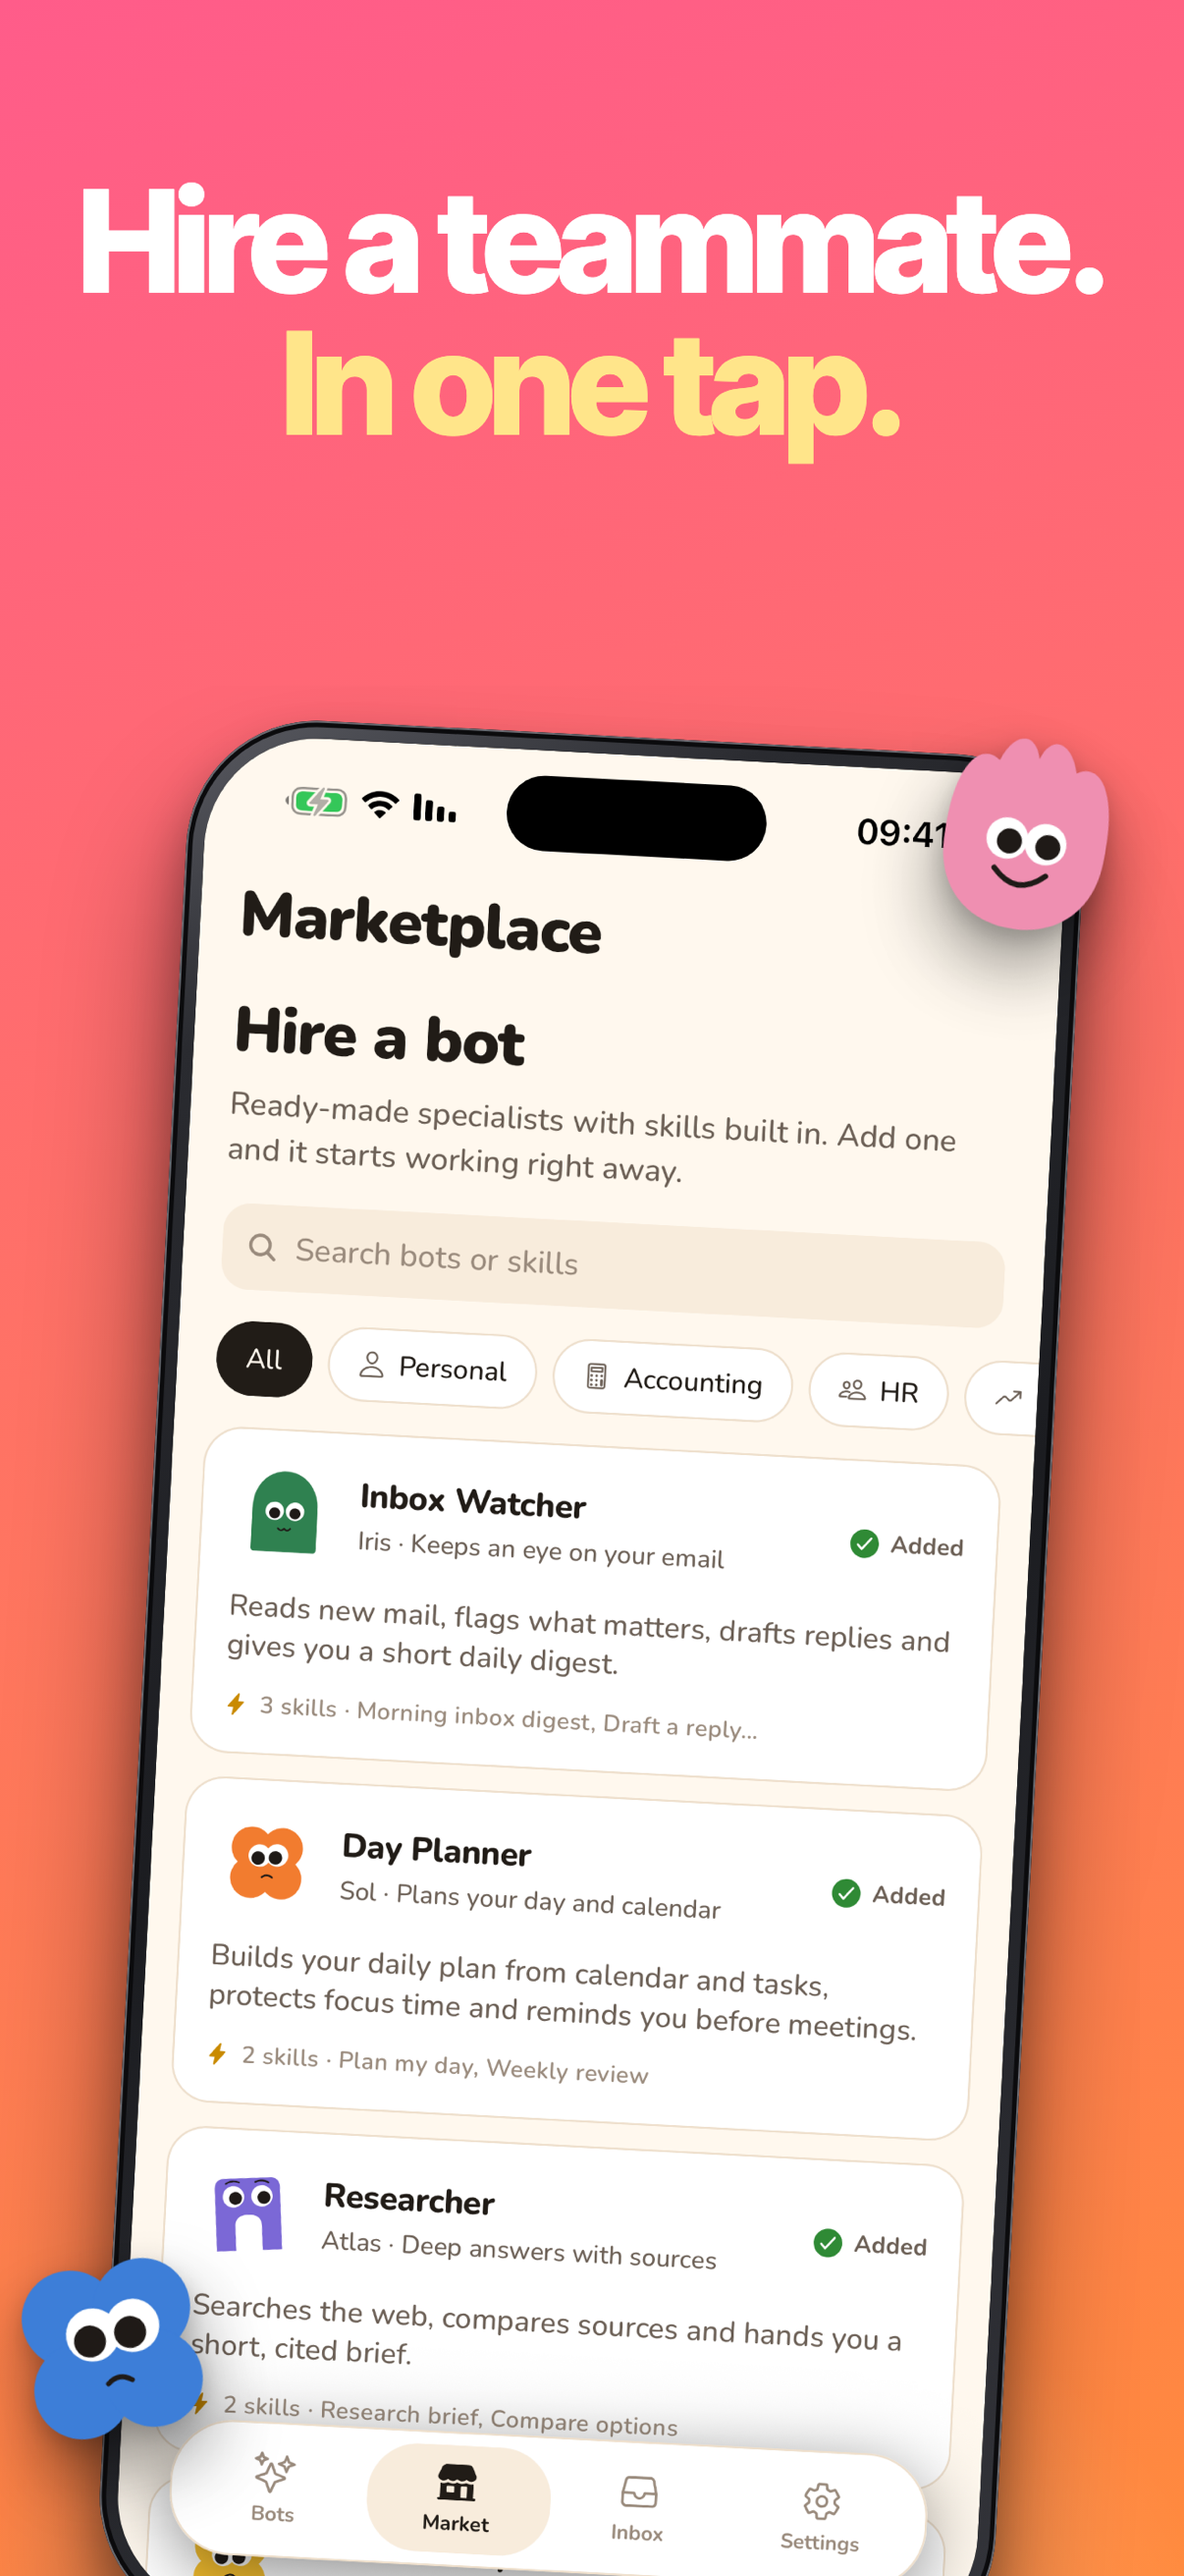
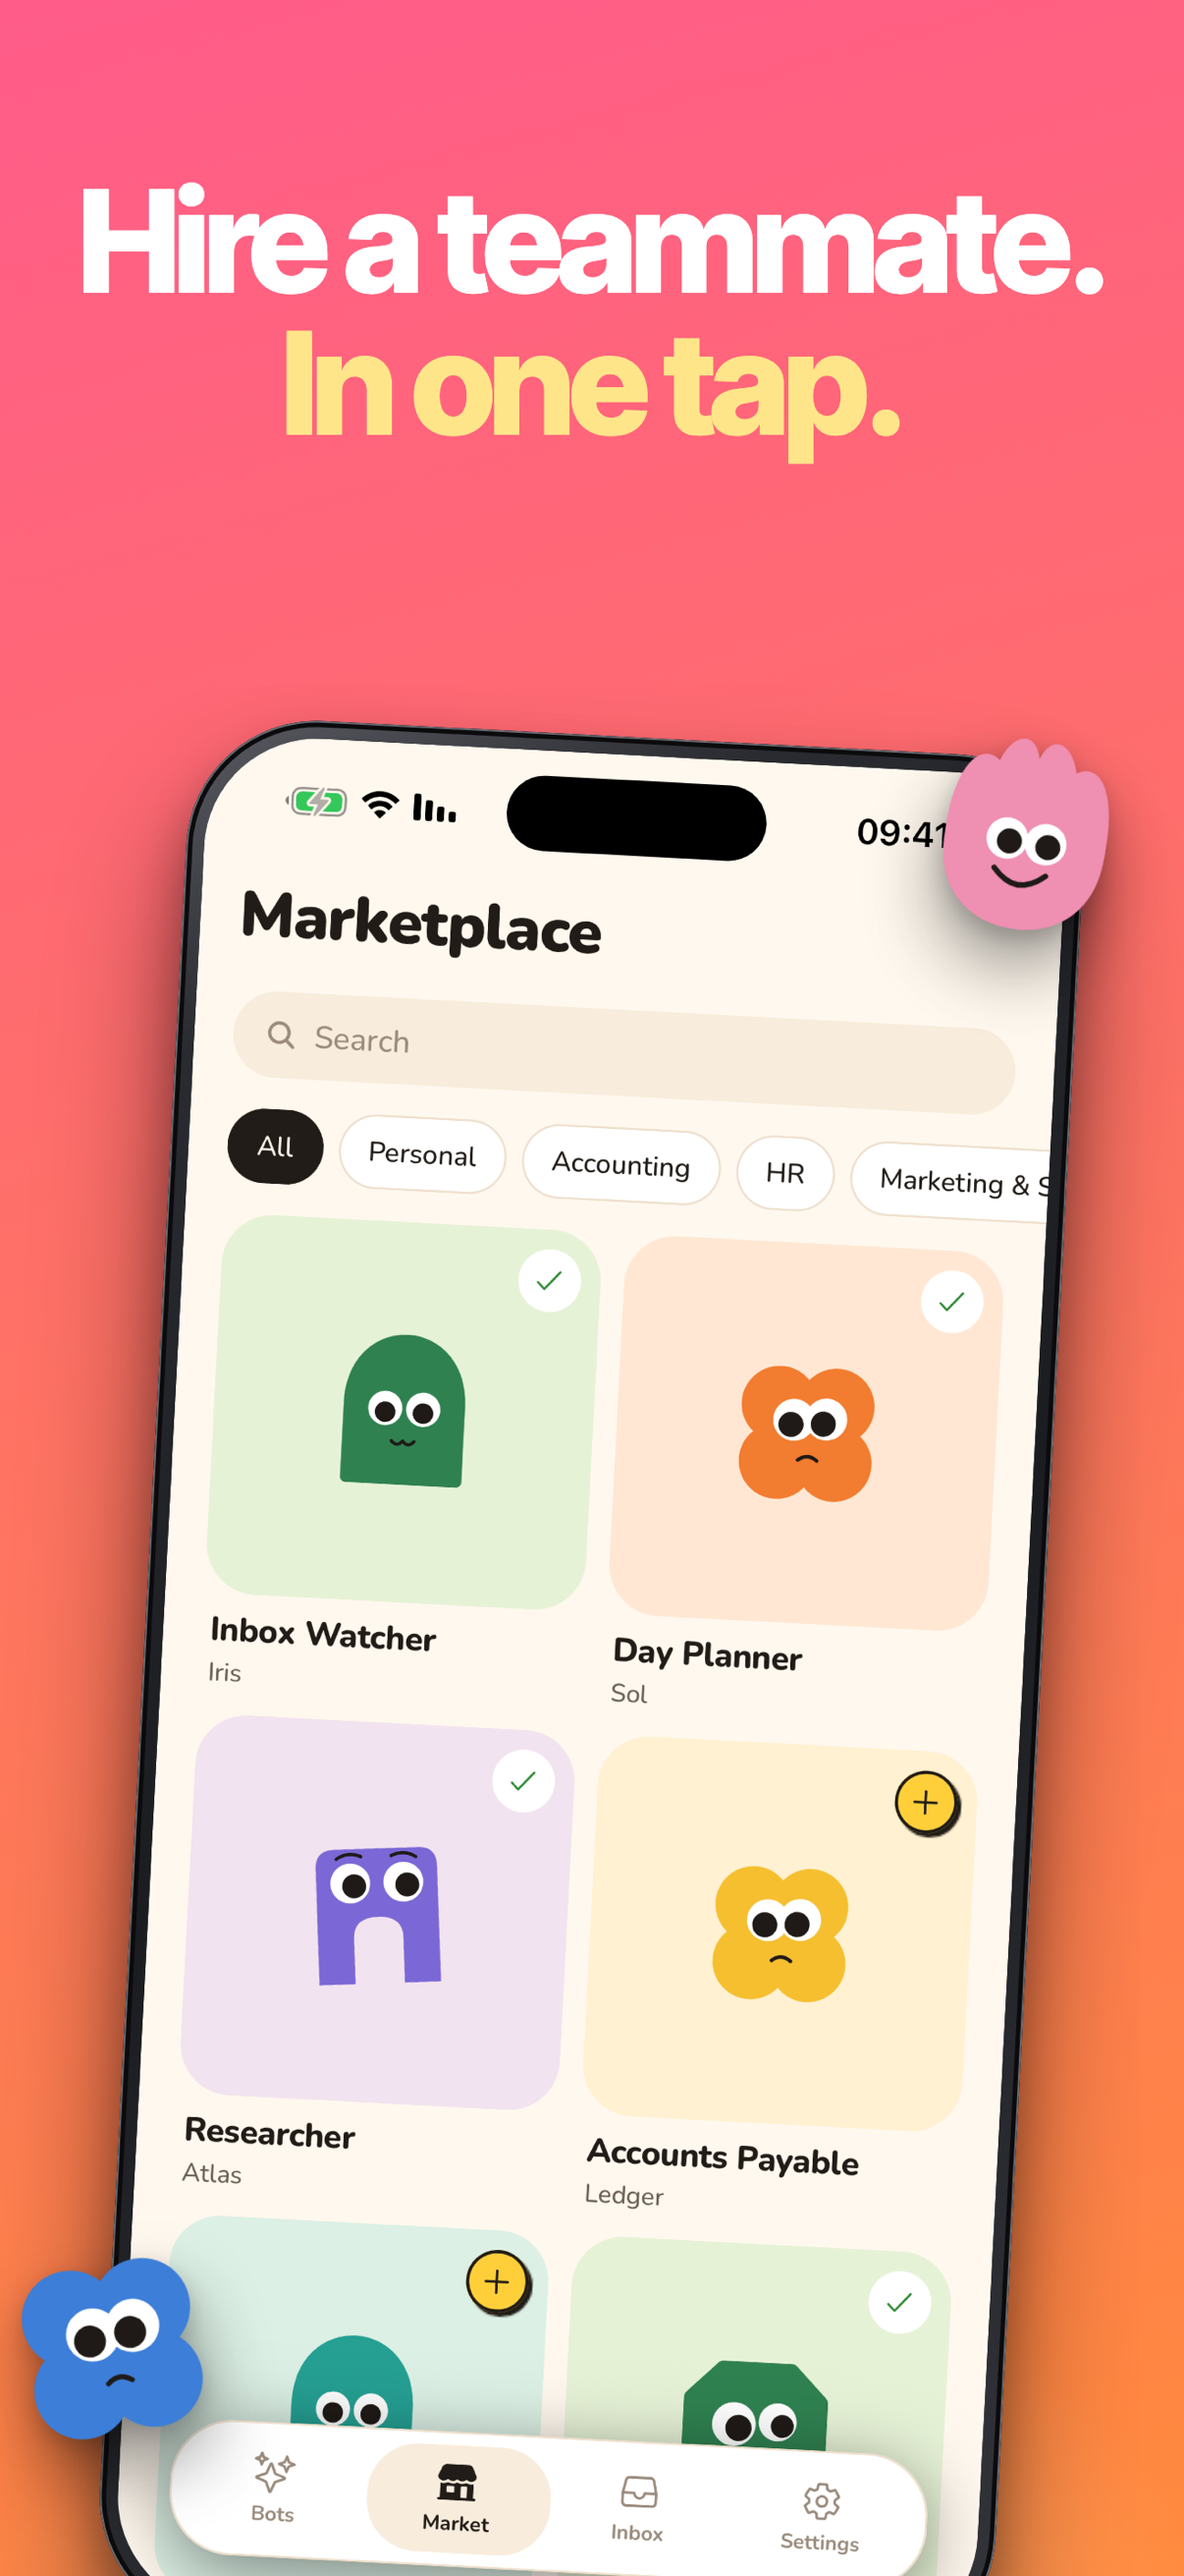
Marketplace is minimal: two-column tiles with a big face, the job and a round add button; shorter detail sheet; build 11

Changed region(s): [[0.1227, 0.3707, 0.859, 1.0], [0.1227, 0.9577, 0.4295, 1.0]]

diff --git a/mobile/src/screens/MarketplaceScreen.tsx b/mobile/src/screens/MarketplaceScreen.tsx
@@ -1,11 +1,11 @@
 import React, { useMemo, useState } from "react";
-import { View, Text, ScrollView, TextInput, Pressable } from "react-native";
+import { View, Text, ScrollView, TextInput, Pressable, useWindowDimensions } from "react-native";
 import { Ionicons } from "@expo/vector-icons";
 import * as Haptics from "expo-haptics";
 import { useWorkspace } from "../lib/store";
 import { Avatar, Button, Chip, EmptyState, ErrorText, Header, IconButton, styles as s } from "../components/UI";
 import { FadeIn, PressableScale, TypingDots } from "../components/motion";
-import { palette as p, type, space, radius, accentFor, fw } from "../theme";
+import { palette as p, type, space, radius, accentFor, fw, sticker } from "../theme";
 import { catalog, categories, templateById, type BotTemplate, type CategoryId } from "../lib/catalog";
 import { installTemplate, isInstalled } from "../lib/install";
 import { handlePlanLimit } from "../lib/billing";
@@ -52,15 +52,11 @@ export function MarketplaceScreen({ done, openBot }: { done?: () => void; openBo
     <View style={s.screen}>
       {done ? <Header large={false} title={tr("Marketplace")} left={<IconButton name="chevron-back" label={tr("Back")} onPress={done} />} /> : <Header title={tr("Marketplace")} />}
       <ScrollView contentContainerStyle={{ paddingBottom: space.xxxl + (done ? 0 : TAB_BAR_SPACE) }} keyboardShouldPersistTaps="handled">
-        <FadeIn style={{ paddingHorizontal: space.xl, paddingTop: space.sm, gap: space.xs }}>
-          <Text style={[type.largeTitle, { color: p.text }]}>{tr("Hire a bot")}</Text>
-          <Text style={[type.body, { color: p.muted }]}>{tr("Ready-made specialists with skills built in. Add one and it starts working right away.")}</Text>
-        </FadeIn>
-        <View style={[s.row, { gap: space.sm, backgroundColor: p.raised, borderRadius: radius.md, paddingHorizontal: space.md, height: 44, marginHorizontal: space.xl, marginTop: space.lg }]}>
+        <View style={[s.row, { gap: space.sm, backgroundColor: p.raised, borderRadius: radius.full, paddingHorizontal: space.lg, height: 44, marginHorizontal: space.xl, marginTop: space.xs }]}>
           <Ionicons name="search" size={17} color={p.faint} />
           <TextInput
             accessibilityLabel={tr("Search bots")}
-            placeholder={tr("Search bots or skills")}
+            placeholder={tr("Search")}
             placeholderTextColor={p.faint}
             selectionColor={p.text}
             value={query}
@@ -72,90 +68,73 @@ export function MarketplaceScreen({ done, openBot }: { done?: () => void; openBo
         <ScrollView horizontal showsHorizontalScrollIndicator={false} contentContainerStyle={{ gap: space.sm, paddingHorizontal: space.xl, paddingVertical: space.lg }}>
           <Chip label={tr("All")} selected={category === "all"} onPress={() => setCategory("all")} />
           {categories.map((c) => (
-            <Chip key={c.id} label={tr(c.label)} icon={c.icon as never} selected={category === c.id} onPress={() => setCategory(c.id)} />
+            <Chip key={c.id} label={tr(c.label)} selected={category === c.id} onPress={() => setCategory(c.id)} />
           ))}
         </ScrollView>
-        <View style={{ paddingHorizontal: space.lg, gap: space.md }}>
+        <View style={{ paddingHorizontal: space.xl, gap: space.md }}>
           <ErrorText error={error} />
-          {pack && pack.length > 1 && !query && (
-            <FadeIn key={`pack-${category}`}>
-              <View style={[s.card, { padding: space.lg, gap: space.md, borderColor: p.lineStrong }]}>
-                <View style={s.row}>
-                  <View style={{ flexDirection: "row" }}>
-                    {pack.map((t, i) => (
-                      <View key={t.id} style={{ marginLeft: i ? -12 : 0 }}>
-                        <Avatar shape={t.shape} size={38} color={t.color} />
-                      </View>
-                    ))}
-                  </View>
-                  <View style={{ flex: 1 }}>
-                    <Text style={[type.headline, { color: p.text }]}>{tr("{name} team", { name: tr(categories.find((c) => c.id === category)?.label ?? "") })}</Text>
-                    <Text style={[type.footnote, { color: p.muted }]}>{tr(categories.find((c) => c.id === category)?.blurb ?? "")}</Text>
-                  </View>
-                </View>
-                <Button
-                  title={packLeft.length ? tr("Add all {n}", { n: packLeft.length }) : tr("Whole team added")}
-                  icon={packLeft.length ? "add" : "checkmark"}
-                  compact
-                  disabled={!packLeft.length || Object.keys(busy).length > 0}
-                  onPress={() => void (async () => {
-                    for (const t of packLeft) await install(t);
-                  })()}
-                />
-              </View>
-            </FadeIn>
+          {pack && pack.length > 1 && !query && packLeft.length > 0 && (
+            <Pressable
+              accessibilityRole="button"
+              disabled={Object.keys(busy).length > 0}
+              onPress={() => void (async () => {
+                for (const t of packLeft) await install(t);
+              })()}
+              style={({ pressed }) => [s.row, { alignSelf: "flex-start", gap: 6, opacity: pressed ? 0.6 : 1 }]}
+            >
+              <Ionicons name="add-circle" size={18} color={p.text} />
+              <Text style={[type.subhead, { color: p.text, ...fw("700") }]}>{tr("Add all {n}", { n: packLeft.length })}</Text>
+            </Pressable>
           )}
-          {list.map((t, i) => (
-            <FadeIn key={`${category}-${t.id}`} delay={Math.min(i, 8) * 50}>
-              <BotCard t={t} added={installed(t)} progress={busy[t.id]} onOpen={() => openBot(t.id)} onAdd={() => void install(t)} />
-            </FadeIn>
-          ))}
-          {!list.length && <EmptyState icon="search-outline" title={tr("No bots match")} detail={tr("Try another word, or create your own bot from the Bots tab.")} />}
+          <View style={{ flexDirection: "row", flexWrap: "wrap", gap: TILE_GAP }}>
+            {list.map((t, i) => (
+              <FadeIn key={`${category}-${t.id}`} delay={Math.min(i, 8) * 40}>
+                <BotTile t={t} added={installed(t)} progress={busy[t.id]} onOpen={() => openBot(t.id)} onAdd={() => void install(t)} />
+              </FadeIn>
+            ))}
+          </View>
+          {!list.length && <EmptyState icon="search-outline" title={tr("No bots match")} detail={tr("Try another word.")} />}
         </View>
       </ScrollView>
     </View>
   );
 }
 
-function BotCard({ t, added, progress, onOpen, onAdd }: { t: BotTemplate; added: boolean; progress?: string; onOpen: () => void; onAdd: () => void }) {
+const TILE_GAP = 12;
+
+/** One teammate: a big face on its own color, the job, and a round add button. Nothing else. */
+function BotTile({ t, added, progress, onOpen, onAdd }: { t: BotTemplate; added: boolean; progress?: string; onOpen: () => void; onAdd: () => void }) {
+  const { width } = useWindowDimensions();
+  const w = Math.floor((width - space.xl * 2 - TILE_GAP) / 2);
   return (
-    <PressableScale accessibilityRole="button" accessibilityLabel={`${t.name}, ${t.label}`} onPress={onOpen} scaleTo={0.985} style={[s.card, { gap: space.md }]}>
-      <View style={s.row}>
-        <Avatar shape={t.shape} size={52} color={t.color} />
-        <View style={{ flex: 1, gap: 2 }}>
-          <Text style={[type.headline, { color: p.text }]}>{tr(t.label)}</Text>
-          <Text style={[type.footnote, { color: p.muted }]} numberOfLines={1}>
-            {t.name} · {tr(t.tagline)}
-          </Text>
+    <PressableScale accessibilityRole="button" accessibilityLabel={`${t.name}, ${tr(t.label)}`} onPress={onOpen} scaleTo={0.97} style={{ width: w, gap: space.sm }}>
+      <View style={{ height: w, borderRadius: 26, backgroundColor: accentFor(t.color) + "26", alignItems: "center", justifyContent: "center" }}>
+        <Avatar shape={t.shape} size={Math.round(w * 0.5)} color={t.color} />
+        <View style={{ position: "absolute", top: 10, right: 10 }}>
+          {added ? (
+            <View style={{ width: 32, height: 32, borderRadius: 16, backgroundColor: p.surface, alignItems: "center", justifyContent: "center" }}>
+              <Ionicons name="checkmark" size={18} color={p.green} />
+            </View>
+          ) : progress ? (
+            <View style={{ height: 32, paddingHorizontal: 10, borderRadius: 16, backgroundColor: p.surface, alignItems: "center", justifyContent: "center" }}>
+              <TypingDots color={p.text} size={4} />
+            </View>
+          ) : (
+            <Pressable
+              accessibilityRole="button"
+              accessibilityLabel={tr("Add {name}", { name: tr(t.label) })}
+              onPress={onAdd}
+              hitSlop={10}
+              style={({ pressed }) => [{ width: 32, height: 32, borderRadius: 16, backgroundColor: p.sun, alignItems: "center", justifyContent: "center", transform: [{ scale: pressed ? 0.92 : 1 }] }, sticker(), { borderWidth: 1.5, shadowOffset: { width: 2, height: 2 } }]}
+            >
+              <Ionicons name="add" size={20} color={p.onSun} />
+            </Pressable>
+          )}
         </View>
-        {added ? (
-          <View style={[s.row, { gap: 4 }]}>
-            <Ionicons name="checkmark-circle" size={18} color={p.green} />
-            <Text style={[type.caption, { color: p.muted }]}>{tr("Added")}</Text>
-          </View>
-        ) : progress ? (
-          <View style={{ alignItems: "center", gap: 4, minWidth: 64 }}>
-            <TypingDots color={p.text} size={4} />
-            <Text style={[type.caption, { color: p.faint, ...fw("400") }]}>{progress}</Text>
-          </View>
-        ) : (
-          <Pressable
-            accessibilityRole="button"
-            accessibilityLabel={tr("Add {name}", { name: tr(t.label) })}
-            onPress={onAdd}
-            hitSlop={8}
-            style={({ pressed }) => ({ backgroundColor: pressed ? p.elevated : p.raised, borderRadius: radius.full, paddingHorizontal: 16, height: 32, justifyContent: "center" })}
-          >
-            <Text style={[type.subhead, { color: p.text, ...fw("700") }]}>{tr("Get")}</Text>
-          </Pressable>
-        )}
       </View>
-      <Text style={[type.callout, { color: p.muted }]} numberOfLines={2}>
-        {tr(t.description)}
-      </Text>
-      <View style={[s.row, { gap: 6 }]}>
-        <Ionicons name="flash" size={12} color={p.amber} />
-        <Text style={[type.caption, { color: p.faint, ...fw("500") }]}>{tr("{n} skills", { n: t.skills.length })} · {t.skills.map((x) => tr(x.name)).slice(0, 2).join(", ")}{t.skills.length > 2 ? "…" : ""}</Text>
+      <View style={{ paddingHorizontal: 4, gap: 1 }}>
+        <Text style={[type.headline, { color: p.text }]} numberOfLines={1}>{tr(t.label)}</Text>
+        <Text style={[type.footnote, { color: p.muted }]} numberOfLines={1}>{t.name}</Text>
       </View>
     </PressableScale>
   );
@@ -178,9 +157,7 @@ export function MarketplaceBotScreen({ id, done, openChat }: { id: string; done:
             <Avatar shape={t.shape} size={96} color={t.color} />
           </View>
           <Text style={[type.largeTitle, { color: p.text, marginTop: space.sm }]}>{tr(t.label)}</Text>
-          <Text style={[type.callout, { color: p.muted }]}>
-            {tr("Meet {name}", { name: t.name })} · {tr(categories.find((c) => c.id === t.category)?.label ?? "")}
-          </Text>
+          <Text style={[type.callout, { color: p.muted }]}>{t.name}</Text>
         </FadeIn>
         <FadeIn delay={60}>
           {added ? (
@@ -191,10 +168,10 @@ export function MarketplaceBotScreen({ id, done, openChat }: { id: string; done:
         </FadeIn>
         <ErrorText error={error} />
         <FadeIn delay={120} style={{ gap: space.sm }}>
-          <Text style={[type.body, { color: p.text }]}>{tr(t.description)}</Text>
+          <Text style={[type.body, { color: p.muted, textAlign: "center" }]}>{tr(t.description)}</Text>
         </FadeIn>
         <FadeIn delay={160} style={{ gap: space.sm }}>
-          <Text style={[s.label, { paddingHorizontal: space.xs }]}>{tr("Skills included")} · {t.skills.length}</Text>
+          <Text style={[s.label, { paddingHorizontal: space.xs }]}>{tr("Skills")}</Text>
           <View style={s.group}>
             {t.skills.map((sk, i) => {
               const expanded = open === sk.name;
@@ -214,8 +191,7 @@ export function MarketplaceBotScreen({ id, done, openChat }: { id: string; done:
                       <Ionicons name="flash" size={16} color={p.amber} />
                     </View>
                     <View style={{ flex: 1, gap: 2 }}>
-                      <Text style={[type.body, { color: p.text }]}>{sk.name}</Text>
-                      <Text style={[type.footnote, { color: p.muted }]}>{tr(sk.description)}</Text>
+                      <Text style={[type.body, { color: p.text }]}>{tr(sk.name)}</Text>
                     </View>
                     <Ionicons name={expanded ? "chevron-up" : "chevron-down"} size={15} color={p.faint} />
                   </Pressable>
@@ -228,17 +204,6 @@ export function MarketplaceBotScreen({ id, done, openChat }: { id: string; done:
               );
             })}
           </View>
-        </FadeIn>
-        <FadeIn delay={200} style={[s.card, { gap: space.md }]}>
-          {[
-            ["desktop-outline", "Its own computer screen"],
-            ["shield-checkmark-outline", "Asks before sending, paying or deleting"],
-          ].map(([icon, label]) => (
-            <View key={label} style={[s.row, { gap: space.md }]}>
-              <Ionicons name={icon as never} size={18} color={p.muted} />
-              <Text style={[type.callout, { color: p.text }]}>{tr(label)}</Text>
-            </View>
-          ))}
         </FadeIn>
       </ScrollView>
     </View>

diff --git a/packages/contracts/src/ar.ts b/packages/contracts/src/ar.ts
@@ -305,6 +305,8 @@ export const ar: Record<string, string> = {
   "{n}+ more bots are waiting in the Marketplace.": "أكثر من {n} بوت بانتظارك في المتجر.",
   "From {name}": "من {name}",
   "Routine · {name}": "مهمة دورية · {name}",
+  "Skills": "المهارات",
+  "Try another word.": "جرّب كلمة تانية.",
   "Meet your team": "تعرّف على فريقك",
   "On team": "في الفريق",
   "Say hi to Badr. It already knows who you are and who's on the team.": "سلّم على بدر. إنه يعرف من أنت ومن في الفريق.",

diff --git a/packages/contracts/src/nl.ts b/packages/contracts/src/nl.ts
@@ -272,6 +272,7 @@ export const nl: Record<string, string> = {
   "{n}+ more bots are waiting in the Marketplace.": "{n}+ andere bots wachten in de Marktplaats.",
   "From {name}": "Van {name}",
   "Routine · {name}": "Routine · {name}",
+  "Try another word.": "Probeer een ander woord.",
   "Meet your team": "Ontmoet je team",
   "Meet {name}": "Ontmoet {name}",
   "Memory": "Geheugen",
